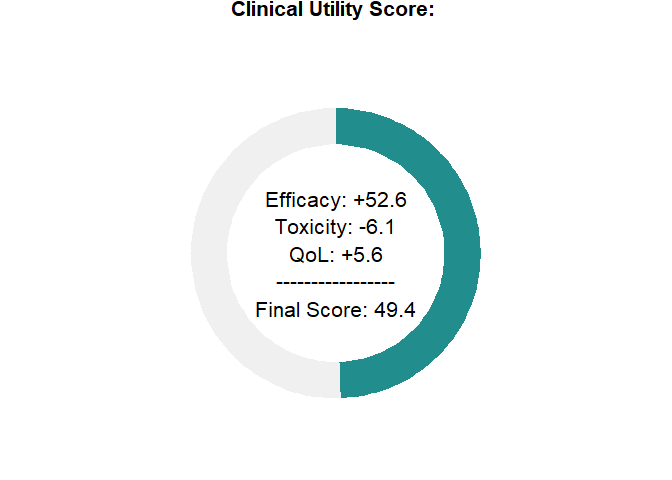
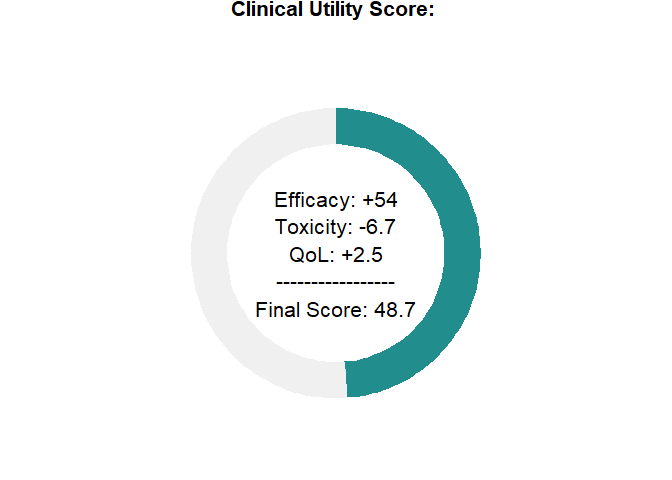
bug fixed

diff --git a/README.md b/README.md
@@ -151,8 +151,8 @@ bayesian_fit <- fit_bayesian_cure_model(
 #> 
 #> SAMPLING FOR MODEL 'anon_model' NOW (CHAIN 1).
 #> Chain 1: 
-#> Chain 1: Gradient evaluation took 0.000745 seconds
-#> Chain 1: 1000 transitions using 10 leapfrog steps per transition would take 7.45 seconds.
+#> Chain 1: Gradient evaluation took 0.000148 seconds
+#> Chain 1: 1000 transitions using 10 leapfrog steps per transition would take 1.48 seconds.
 #> Chain 1: Adjust your expectations accordingly!
 #> Chain 1: 
 #> Chain 1: 
@@ -169,15 +169,15 @@ bayesian_fit <- fit_bayesian_cure_model(
 #> Chain 1: Iteration: 2250 / 2500 [ 90%]  (Sampling)
 #> Chain 1: Iteration: 2500 / 2500 [100%]  (Sampling)
 #> Chain 1: 
-#> Chain 1:  Elapsed Time: 10.058 seconds (Warm-up)
-#> Chain 1:                10.807 seconds (Sampling)
-#> Chain 1:                20.865 seconds (Total)
+#> Chain 1:  Elapsed Time: 2.865 seconds (Warm-up)
+#> Chain 1:                3.01 seconds (Sampling)
+#> Chain 1:                5.875 seconds (Total)
 #> Chain 1: 
 #> 
 #> SAMPLING FOR MODEL 'anon_model' NOW (CHAIN 2).
 #> Chain 2: 
-#> Chain 2: Gradient evaluation took 0.000452 seconds
-#> Chain 2: 1000 transitions using 10 leapfrog steps per transition would take 4.52 seconds.
+#> Chain 2: Gradient evaluation took 0.000115 seconds
+#> Chain 2: 1000 transitions using 10 leapfrog steps per transition would take 1.15 seconds.
 #> Chain 2: Adjust your expectations accordingly!
 #> Chain 2: 
 #> Chain 2: 
@@ -194,15 +194,15 @@ bayesian_fit <- fit_bayesian_cure_model(
 #> Chain 2: Iteration: 2250 / 2500 [ 90%]  (Sampling)
 #> Chain 2: Iteration: 2500 / 2500 [100%]  (Sampling)
 #> Chain 2: 
-#> Chain 2:  Elapsed Time: 8.706 seconds (Warm-up)
-#> Chain 2:                10.754 seconds (Sampling)
-#> Chain 2:                19.46 seconds (Total)
+#> Chain 2:  Elapsed Time: 2.569 seconds (Warm-up)
+#> Chain 2:                3.052 seconds (Sampling)
+#> Chain 2:                5.621 seconds (Total)
 #> Chain 2: 
 #> 
 #> SAMPLING FOR MODEL 'anon_model' NOW (CHAIN 3).
 #> Chain 3: 
-#> Chain 3: Gradient evaluation took 0.000237 seconds
-#> Chain 3: 1000 transitions using 10 leapfrog steps per transition would take 2.37 seconds.
+#> Chain 3: Gradient evaluation took 0.000144 seconds
+#> Chain 3: 1000 transitions using 10 leapfrog steps per transition would take 1.44 seconds.
 #> Chain 3: Adjust your expectations accordingly!
 #> Chain 3: 
 #> Chain 3: 
@@ -219,15 +219,15 @@ bayesian_fit <- fit_bayesian_cure_model(
 #> Chain 3: Iteration: 2250 / 2500 [ 90%]  (Sampling)
 #> Chain 3: Iteration: 2500 / 2500 [100%]  (Sampling)
 #> Chain 3: 
-#> Chain 3:  Elapsed Time: 9.195 seconds (Warm-up)
-#> Chain 3:                11.503 seconds (Sampling)
-#> Chain 3:                20.698 seconds (Total)
+#> Chain 3:  Elapsed Time: 2.698 seconds (Warm-up)
+#> Chain 3:                3.709 seconds (Sampling)
+#> Chain 3:                6.407 seconds (Total)
 #> Chain 3: 
 #> 
 #> SAMPLING FOR MODEL 'anon_model' NOW (CHAIN 4).
 #> Chain 4: 
-#> Chain 4: Gradient evaluation took 0.000796 seconds
-#> Chain 4: 1000 transitions using 10 leapfrog steps per transition would take 7.96 seconds.
+#> Chain 4: Gradient evaluation took 0.000135 seconds
+#> Chain 4: 1000 transitions using 10 leapfrog steps per transition would take 1.35 seconds.
 #> Chain 4: Adjust your expectations accordingly!
 #> Chain 4: 
 #> Chain 4: 
@@ -244,9 +244,9 @@ bayesian_fit <- fit_bayesian_cure_model(
 #> Chain 4: Iteration: 2250 / 2500 [ 90%]  (Sampling)
 #> Chain 4: Iteration: 2500 / 2500 [100%]  (Sampling)
 #> Chain 4: 
-#> Chain 4:  Elapsed Time: 13.607 seconds (Warm-up)
-#> Chain 4:                15.559 seconds (Sampling)
-#> Chain 4:                29.166 seconds (Total)
+#> Chain 4:  Elapsed Time: 4.074 seconds (Warm-up)
+#> Chain 4:                5.044 seconds (Sampling)
+#> Chain 4:                9.118 seconds (Total)
 #> Chain 4:
 ```
 
@@ -273,7 +273,7 @@ print(bayesian_fit$stan_fit, pars = c("beta_cure_arm", "beta_surv_arm", "alpha")
 #> beta_surv_arm 0.57    0.00 0.15 0.31 0.47 0.56 0.65  0.88  3232    1
 #> alpha         1.33    0.00 0.09 1.16 1.27 1.33 1.39  1.50  4060    1
 #> 
-#> Samples were drawn using NUTS(diag_e) at Sun Jul 27 10:59:09 2025.
+#> Samples were drawn using NUTS(diag_e) at Sun Jul 27 16:36:15 2025.
 #> For each parameter, n_eff is a crude measure of effective sample size,
 #> and Rhat is the potential scale reduction factor on split chains (at 
 #> convergence, Rhat=1).
@@ -332,11 +332,11 @@ experimental arm, consistent with the simulation:
 ``` r
 toxicity_output <- calculate_toxicity_adjustment(
   trial_data = toxicity_trial,
-  n_simulations = length(bayesian_fit$posterior_draws)
+  n_simulations = bayesian_fit$n_draws
 )
 
 plot_toxicity_adjustment(toxicity_output)
-#> Picking joint bandwidth of 0.0265
+#> Picking joint bandwidth of 0.00582
 ```
 
 <div class="figure">
@@ -356,7 +356,7 @@ QoL adjustments modeled using multinomial distribution:
 ``` r
 qol_scores <- sample_qol_scores(
   prob_vector = toxicity_trial$qol,
-  n_samples = length(bayesian_fit$posterior_draws)
+  n_samples = bayesian_fit$n_draws
 )
 
 plot_qol_histogram(qol_scores)
@@ -420,20 +420,20 @@ final_utilities <- summarize_final_utility(
 )
 #> Info: P(Cure Benefit > 0.02) = 0.98. Profile detected: 'Cure'.
 #> Info: 'Cure' profile. Median cure diff=0.148 -> Dominance Factor=0.62
-#> Info: QoL magnitude is 0.75. Applying gradual weighting.
-#> Info: Final adjusted weights -> tr 0.294, cure 0.477, tox 0.154, qol 0.075
+#> Info: QoL magnitude is 0.50. Applying gradual weighting.
+#> Info: Final adjusted weights -> tr 0.302, cure 0.49, tox 0.158, qol 0.05
 
 print(final_utilities$component_summary)
 #>                          Component     Median Lower_95_CrI Upper_95_CrI
 #> 1      1. -> Score TR (Calibrated)  93.009516    71.845939    99.689848
 #> 2         2. -> Score Cure (0-100)  52.921441     8.224687    92.141417
-#> 3    3. -> Score Toxicity (scaled) -39.367554   -48.065171   -35.689099
-#> 4         4. -> Score QoL (scaled)  75.000000   -41.250000   100.000000
-#> 5       Contribution TR (Weighted)  27.335328    21.115391    29.298666
-#> 6     Contribution Cure (Weighted)  25.240095     3.922642    43.945480
-#> 7 Contribution Toxicity (Weighted)  -6.069165    -7.410047    -5.502069
-#> 8      Contribution QoL (Weighted)   5.625000    -3.093750     7.500000
-#> 9              FINAL UTILITY SCORE  49.425658    26.114988    70.522292
+#> 3    3. -> Score Toxicity (scaled) -42.417455   -49.520258   -35.306316
+#> 4         4. -> Score QoL (scaled)  50.000000  -100.000000   100.000000
+#> 5       Contribution TR (Weighted)  28.074121    21.686078    30.090522
+#> 6     Contribution Cure (Weighted)  25.922260     4.028660    45.133196
+#> 7 Contribution Toxicity (Weighted)  -6.716097    -7.840708    -5.590167
+#> 8      Contribution QoL (Weighted)   2.500000    -5.000000     5.000000
+#> 9              FINAL UTILITY SCORE  48.707666    26.812621    69.192432
 ```
 
 ### Step 9: Visualize final clinical benefit
